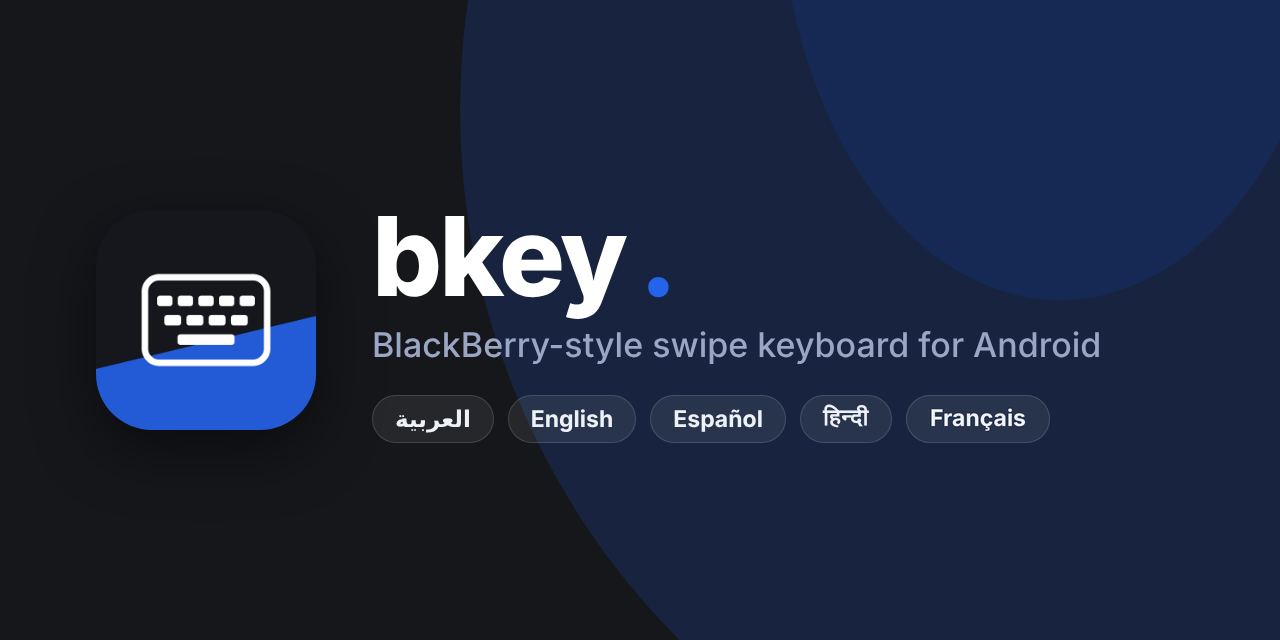
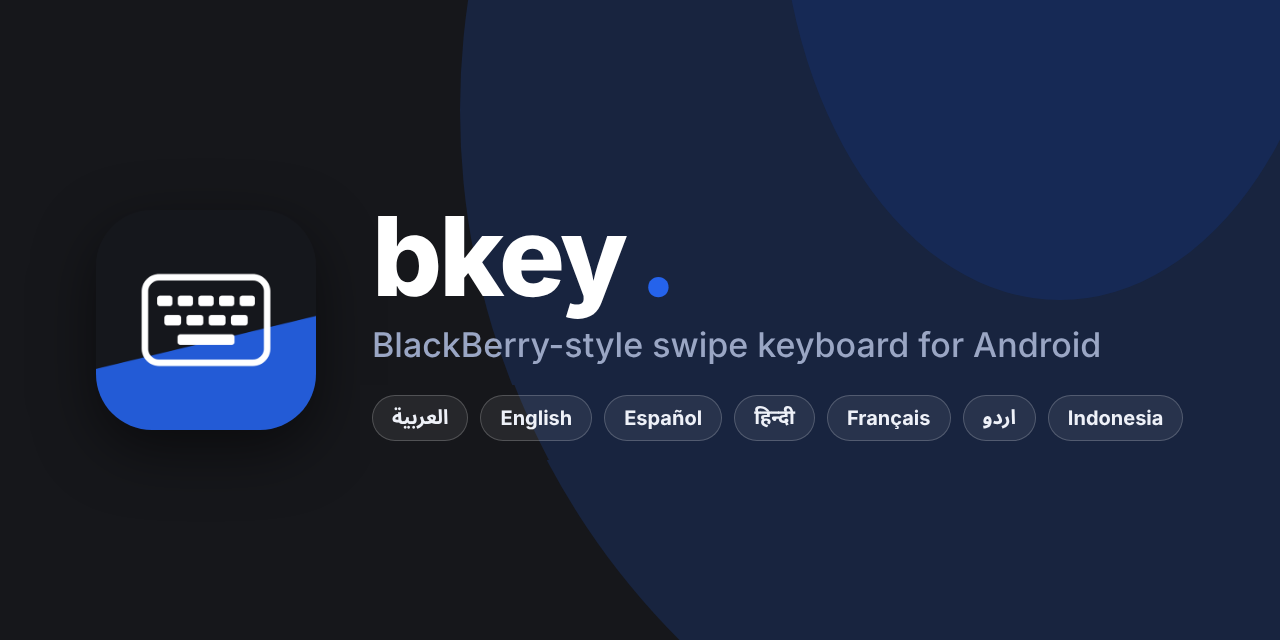
update readme and social image for indonesian

Changed region(s): [[0.3125, 0.625, 0.9062, 0.7188]]

diff --git a/README.hi.md b/README.hi.md
@@ -15,7 +15,7 @@
 ![Release](https://img.shields.io/github/v/release/snooptiger9/bkey-keyboard)
 ![Downloads](https://img.shields.io/github/downloads/snooptiger9/bkey-keyboard/total)
 ![Platform](https://img.shields.io/badge/platform-Android%207.0%2B-3DDC84?logo=android&logoColor=white)
-![Languages](https://img.shields.io/badge/Languages-AR%20%7C%20EN%20%7C%20ES%20%7C%20HI%20%7C%20FR%20%7C%20UR-blue)
+![Languages](https://img.shields.io/badge/Languages-English%20%2B6-blue)
 ![License](https://img.shields.io/github/license/snooptiger9/bkey-keyboard)
 ![Last Commit](https://img.shields.io/github/last-commit/snooptiger9/bkey-keyboard)
 [![APKPure](https://img.shields.io/badge/APKPure-v306.0-blue)](https://apkpure.com/p/com.snooptiger9.bkey)
@@ -34,7 +34,7 @@
 **bkey** एक Android कीबोर्ड (IME) है जो **BlackBerry Keyboard - Classic** ऐप के स्वाइप जेस्चर पर आधारित है, और
 इसमें ज़्यादा कस्टमाइज़ेशन और अतिरिक्त सुविधाएँ हैं: किसी भी सुझाव पर ऊपर स्वाइप करके उसे तुरंत स्वीकार करें,
 और अक्षरों की पंक्ति पर बग़ल में स्वाइप करके (दिशा आप चुनते हैं) बार-बार बैकस्पेस दबाने के बजाय तेज़ी से मिटाएँ।
-यह अरबी, अंग्रेज़ी, स्पेनिश, हिन्दी, फ़्रेंच और उर्दू को पूरी तरह सपोर्ट करता है, और हर भाषा के लिए अलग से सोच-समझकर बनाया गया अनुभव देता है।
+यह अरबी, अंग्रेज़ी, स्पेनिश, हिन्दी, फ़्रेंच, उर्दू और इंडोनेशियाई को पूरी तरह सपोर्ट करता है, और हर भाषा के लिए अलग से सोच-समझकर बनाया गया अनुभव देता है।
 
 <br>
 
@@ -56,7 +56,7 @@
 - स्पेस बार को दबाए रखकर खींचें: कर्सर एक-एक अक्षर आगे-पीछे होता है।
 
   ![कर्सर हिलाने के लिए स्पेस बार दबाए रखें और खींचें](docs/gifs/cursor_move.gif?v=2)
-- स्पेस बार को बाएँ/दाएँ स्वाइप करें: अलग भाषा-बटन के बिना, चालू की गई भाषाओं (अरबी/अंग्रेज़ी/स्पेनिश/हिन्दी/फ़्रेंच/उर्दू) के बीच बदलें।
+- स्पेस बार को बाएँ/दाएँ स्वाइप करें: अलग भाषा-बटन के बिना, चालू की गई भाषाओं (अरबी/अंग्रेज़ी/स्पेनिश/हिन्दी/फ़्रेंच/उर्दू/इंडोनेशियाई) के बीच बदलें।
 - फ़्रेंच डिफ़ॉल्ट रूप से AZERTY लेआउट इस्तेमाल करता है; QWERTY सेटिंग्स → भाषाएँ में चुना जा सकता है।
 - किसी भी कुंजी को दबाए रखें: वैकल्पिक अक्षरों वाली विंडो (सक्रिय भाषा के हिसाब से बड़े अक्षर, उच्चारण-चिह्न और चिह्न)।
 

diff --git a/README.fr.md b/README.fr.md
@@ -15,7 +15,7 @@
 ![Release](https://img.shields.io/github/v/release/snooptiger9/bkey-keyboard)
 ![Downloads](https://img.shields.io/github/downloads/snooptiger9/bkey-keyboard/total)
 ![Platform](https://img.shields.io/badge/platform-Android%207.0%2B-3DDC84?logo=android&logoColor=white)
-![Languages](https://img.shields.io/badge/Languages-AR%20%7C%20EN%20%7C%20ES%20%7C%20HI%20%7C%20FR%20%7C%20UR-blue)
+![Languages](https://img.shields.io/badge/Languages-English%20%2B6-blue)
 ![License](https://img.shields.io/github/license/snooptiger9/bkey-keyboard)
 ![Last Commit](https://img.shields.io/github/last-commit/snooptiger9/bkey-keyboard)
 [![APKPure](https://img.shields.io/badge/APKPure-v306.0-blue)](https://apkpure.com/p/com.snooptiger9.bkey)
@@ -35,7 +35,7 @@ Si ce projet vous est utile, une <img src="docs/icons/star.svg" width="22" heigh
 Classic**, avec plus de personnalisation et des fonctions en plus : glissez vers le haut sur une
 suggestion pour l'accepter aussitôt, et glissez sur le côté le long des lettres (direction
 configurable) pour effacer vite, au lieu de taper plusieurs fois sur retour arrière. Il prend en
-charge l'arabe, l'anglais, l'espagnol, l'hindi, le français et l'ourdou, avec une expérience soignée pour chaque langue.
+charge l'arabe, l'anglais, l'espagnol, l'hindi, le français, l'ourdou et l'indonésien, avec une expérience soignée pour chaque langue.
 
 <br>
 
@@ -57,7 +57,7 @@ charge l'arabe, l'anglais, l'espagnol, l'hindi, le français et l'ourdou, avec u
 - Appui long + glisser sur la barre d'espace : déplacer le curseur caractère par caractère.
 
   ![Appui long + glisser sur la barre d'espace pour déplacer le curseur](docs/gifs/cursor_move.gif?v=2)
-- Glisser la barre d'espace à gauche/droite : passer d'une langue activée à l'autre (arabe/anglais/espagnol/hindi/français/ourdou) sans bouton de langue séparé.
+- Glisser la barre d'espace à gauche/droite : passer d'une langue activée à l'autre (arabe/anglais/espagnol/hindi/français/ourdou/indonésien) sans bouton de langue séparé.
 - Le français utilise la disposition AZERTY par défaut ; QWERTY se choisit dans Réglages → Langues.
 - Appui long sur une touche : fenêtre avec des caractères alternatifs (majuscules, accents et symboles adaptés à la langue active).
 

diff --git a/README.es.md b/README.es.md
@@ -15,7 +15,7 @@
 ![Release](https://img.shields.io/github/v/release/snooptiger9/bkey-keyboard)
 ![Downloads](https://img.shields.io/github/downloads/snooptiger9/bkey-keyboard/total)
 ![Platform](https://img.shields.io/badge/platform-Android%207.0%2B-3DDC84?logo=android&logoColor=white)
-![Languages](https://img.shields.io/badge/Languages-AR%20%7C%20EN%20%7C%20ES%20%7C%20HI%20%7C%20FR%20%7C%20UR-blue)
+![Languages](https://img.shields.io/badge/Languages-English%20%2B6-blue)
 ![License](https://img.shields.io/github/license/snooptiger9/bkey-keyboard)
 ![Last Commit](https://img.shields.io/github/last-commit/snooptiger9/bkey-keyboard)
 [![APKPure](https://img.shields.io/badge/APKPure-v306.0-blue)](https://apkpure.com/p/com.snooptiger9.bkey)
@@ -35,7 +35,7 @@ Si te resulta útil, una <img src="docs/icons/star.svg" width="22" height="22" a
 Keyboard - Classic**, con más personalización y funciones extra: desliza hacia arriba sobre cualquier
 sugerencia para aceptarla al instante, y desliza hacia los lados sobre la fila de letras (dirección
 configurable) para borrar rápido en lugar de pulsar la tecla de retroceso una y otra vez. Es
-totalmente compatible con árabe, inglés, español, hindi, francés y urdu, con una experiencia cuidada para cada idioma.
+totalmente compatible con árabe, inglés, español, hindi, francés, urdu e indonesio, con una experiencia cuidada para cada idioma.
 
 <br>
 
@@ -57,7 +57,7 @@ totalmente compatible con árabe, inglés, español, hindi, francés y urdu, con
 - Mantén pulsada la barra espaciadora y arrastra: mueve el cursor carácter a carácter.
 
   ![Mantén pulsada y arrastra la barra espaciadora para mover el cursor](docs/gifs/cursor_move.gif?v=2)
-- Desliza la barra espaciadora a izquierda/derecha: cambia entre tus idiomas activados (árabe/inglés/español/hindi/francés/urdu) sin un botón de idioma aparte.
+- Desliza la barra espaciadora a izquierda/derecha: cambia entre tus idiomas activados (árabe/inglés/español/hindi/francés/urdu/indonesio) sin un botón de idioma aparte.
 - El francés usa la distribución AZERTY por defecto; QWERTY se elige en Ajustes → Idiomas.
 - Mantén pulsada cualquier tecla: ventana con caracteres alternativos (mayúsculas, acentos y símbolos según el idioma activo).
 

diff --git a/README.md b/README.md
@@ -15,7 +15,7 @@
 ![Release](https://img.shields.io/github/v/release/snooptiger9/bkey-keyboard)
 ![Downloads](https://img.shields.io/github/downloads/snooptiger9/bkey-keyboard/total)
 ![Platform](https://img.shields.io/badge/platform-Android%207.0%2B-3DDC84?logo=android&logoColor=white)
-![Languages](https://img.shields.io/badge/Languages-AR%20%7C%20EN%20%7C%20ES%20%7C%20HI%20%7C%20FR%20%7C%20UR-blue)
+![Languages](https://img.shields.io/badge/Languages-English%20%2B6-blue)
 ![License](https://img.shields.io/github/license/snooptiger9/bkey-keyboard)
 ![Last Commit](https://img.shields.io/github/last-commit/snooptiger9/bkey-keyboard)
 [![APKPure](https://img.shields.io/badge/APKPure-v313.0-blue)](https://apkpure.com/p/com.snooptiger9.bkey)
@@ -34,7 +34,7 @@ If you find this useful, a <img src="docs/icons/star.svg" width="22" height="22"
 **bkey** is an Android keyboard (IME) built on the swipe gestures of the **BlackBerry Keyboard -
 Classic** app, with more customization and extra features: swipe up on any suggestion to accept it
 instantly, and swipe sideways across the letter row (direction configurable) for quick deletion
-instead of repeated backspace taps. Fully supports Arabic, English, Spanish, Hindi, French, and Urdu with a carefully
+instead of repeated backspace taps. Fully supports Arabic, English, Spanish, Hindi, French, Urdu, and Indonesian with a carefully
 tailored experience for each.
 
 <br>
@@ -57,7 +57,7 @@ tailored experience for each.
 - Press-and-hold + drag the space bar: move the cursor character by character.
 
   ![Press-and-hold + drag the space bar to move the cursor](docs/gifs/cursor_move.gif?v=2)
-- Swipe the space bar left/right: cycle through your enabled languages (Arabic/English/Spanish/Hindi/French/Urdu) without a separate language button.
+- Swipe the space bar left/right: cycle through your enabled languages (Arabic/English/Spanish/Hindi/French/Urdu/Indonesian) without a separate language button.
 - French uses the AZERTY layout by default; QWERTY is one tap away in Settings → Languages.
 - Long-press any key: popup with alternate characters (capitals, accents and symbols that fit the active language).
 

diff --git a/README.ar.md b/README.ar.md
@@ -15,7 +15,7 @@
 ![Release](https://img.shields.io/github/v/release/snooptiger9/bkey-keyboard)
 ![Downloads](https://img.shields.io/github/downloads/snooptiger9/bkey-keyboard/total)
 ![Platform](https://img.shields.io/badge/platform-Android%207.0%2B-3DDC84?logo=android&logoColor=white)
-![Languages](https://img.shields.io/badge/Languages-AR%20%7C%20EN%20%7C%20ES%20%7C%20HI%20%7C%20FR%20%7C%20UR-blue)
+![Languages](https://img.shields.io/badge/Languages-English%20%2B6-blue)
 ![License](https://img.shields.io/github/license/snooptiger9/bkey-keyboard)
 ![Last Commit](https://img.shields.io/github/last-commit/snooptiger9/bkey-keyboard)
 [![APKPure](https://img.shields.io/badge/APKPure-v306.0-blue)](https://apkpure.com/p/com.snooptiger9.bkey)
@@ -33,7 +33,7 @@
 
 **bkey** كيبورد أندرويد (IME) مبني على إيماءات السحب في تطبيق **BlackBerry Keyboard - Classic**،
 بتخصيص ومميزات أكثر: اسحب للأعلى من أي اقتراح لاختياره فوراً، واسحب جانبياً على صف الحروف (الاتجاه
-قابل للتخصيص) للحذف بدل الضغط المتكرر على الباكسبيس. يدعم العربية والإنجليزية والإسبانية والهندية والفرنسية والأردية بالكامل
+قابل للتخصيص) للحذف بدل الضغط المتكرر على الباكسبيس. يدعم العربية والإنجليزية والإسبانية والهندية والفرنسية والأردية والإندونيسية بالكامل
 مع تجربة مخصصة بعناية لكل لغة.
 
 <br>
